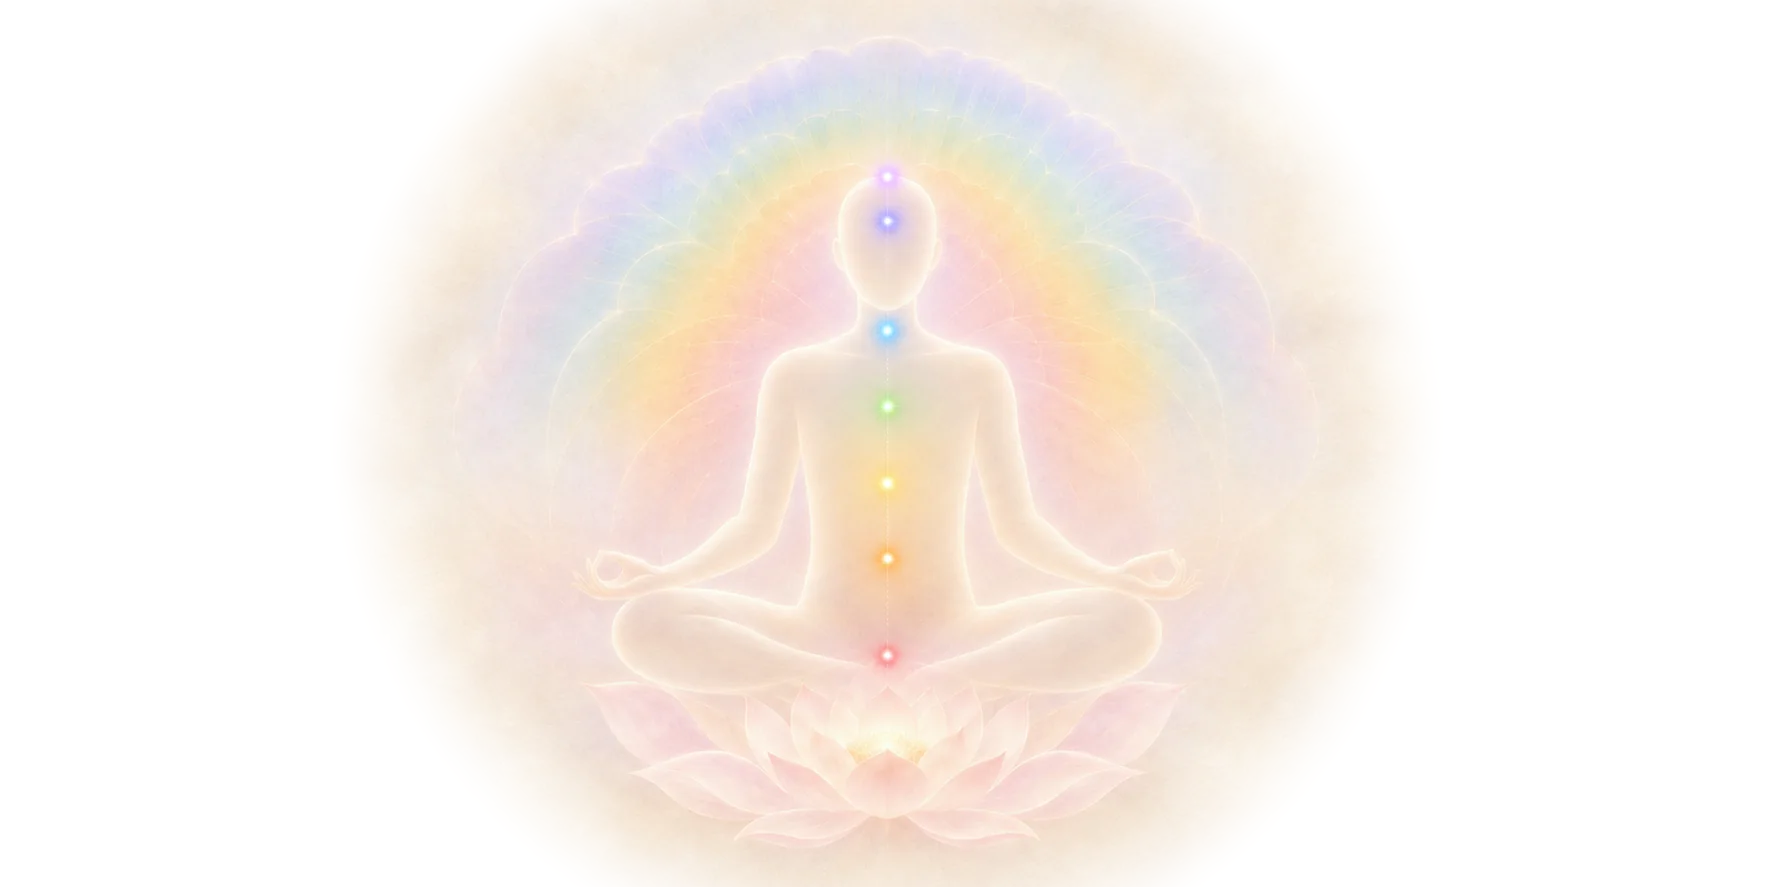
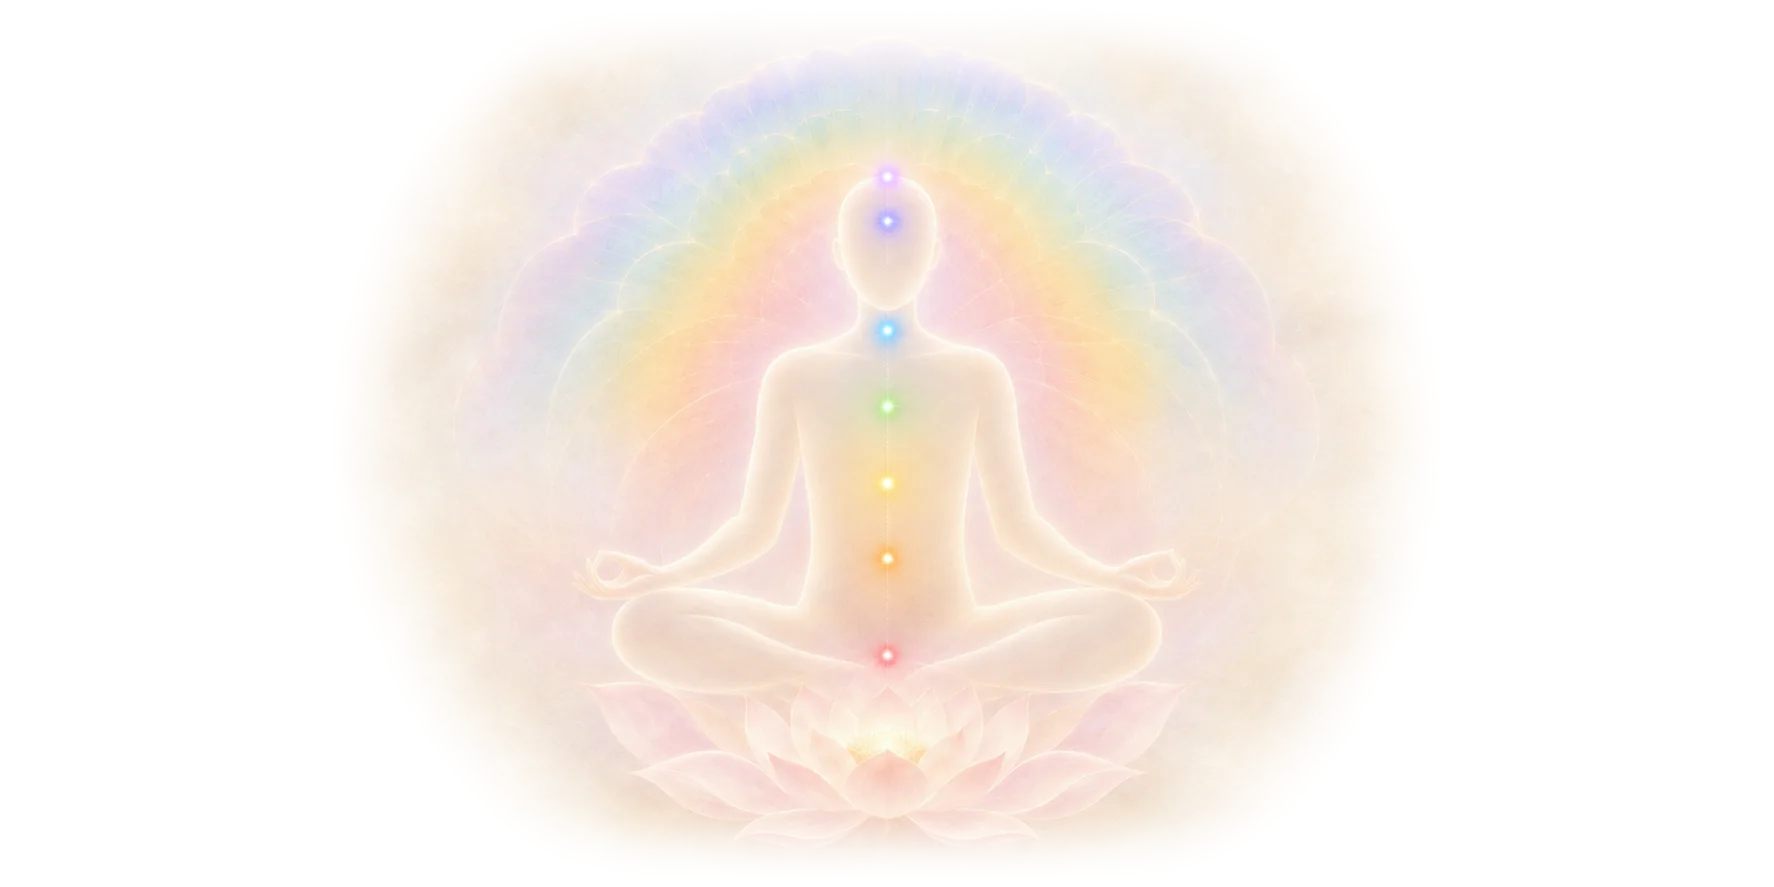
Fade figure top/bottom edges and restyle controls as liquid glass
- Figure: add top/bottom alpha fades so no hard horizontal edge remains
- Phones: transparent panels so glass shadows fade instead of being cut
- CSS liquid-glass treatment for the chakra chip bar (floating over the
  lotus on phones), quiz card and section tabs, keeping real buttons

Changed region(s): [[0.372, 0.0, 0.6511, 0.0609], [0.372, 0.9436, 0.6201, 1.0]]

diff --git a/src/styles.css b/src/styles.css
@@ -26,6 +26,15 @@
   --shadow: #6b5440;
   --fill: #ffffff;
   --scrim: rgba(92, 70, 52, 0.28);
+  /* Liquid glass: translucent fill, frosted backdrop, specular rim. */
+  --glass-fill: linear-gradient(180deg, rgba(255, 255, 255, 0.5), rgba(255, 255, 255, 0.16));
+  --glass-blur: blur(14px) saturate(170%);
+  --glass-shadow:
+    inset 0 1px 0 rgba(255, 255, 255, 0.95),
+    inset 0 -1px 0 rgba(255, 255, 255, 0.35),
+    inset 0 0 0 1px rgba(255, 255, 255, 0.5),
+    0 10px 28px rgba(107, 84, 64, 0.12),
+    0 1px 2px rgba(107, 84, 64, 0.1);
   /* Chakra colours are tuned for glowing on dark; as text on parchment they
      are deepened toward the ink colour to stay readable. */
   --ink-mix: 50%;
@@ -286,18 +295,22 @@ button:focus-visible {
   gap: 14px;
   width: 100%;
   margin-top: 16px;
-  padding: 12px 16px;
+  padding: 12px 18px;
   text-align: left;
-  border: 1px solid var(--line);
-  border-radius: 12px;
-  background: linear-gradient(100deg, color-mix(in srgb, var(--gold) 10%, transparent), color-mix(in srgb, var(--gold) 2%, transparent));
+  border-radius: 20px;
+  background: var(--glass-fill);
+  backdrop-filter: var(--glass-blur);
+  -webkit-backdrop-filter: var(--glass-blur);
+  box-shadow: var(--glass-shadow);
   color: var(--gold-bright);
-  transition: border-color 0.2s ease, box-shadow 0.2s ease, background-color 0.2s ease;
+  transition: box-shadow 0.25s ease, transform 0.25s ease;
 }
 
 .quiz-cta:hover {
-  border-color: color-mix(in srgb, var(--gold-bright) 60%, transparent);
-  box-shadow: 0 0 26px color-mix(in srgb, var(--gold) 16%, transparent);
+  transform: translateY(-1px);
+  box-shadow:
+    var(--glass-shadow),
+    0 14px 34px rgba(107, 84, 64, 0.16);
 }
 
 .quiz-cta > svg:first-child {
@@ -739,14 +752,16 @@ button:focus-visible {
   gap: 4px;
   padding: 4px;
   margin: 0 0 14px;
-  border: 1px solid var(--soft-line);
-  border-radius: 12px;
-  background: color-mix(in srgb, var(--fill) 35%, transparent);
+  border-radius: 999px;
+  background: var(--glass-fill);
+  backdrop-filter: var(--glass-blur);
+  -webkit-backdrop-filter: var(--glass-blur);
+  box-shadow: var(--glass-shadow);
 }
 
 .section-tab {
   min-height: 44px;
-  border-radius: 9px;
+  border-radius: 999px;
   font-family: var(--font-ui);
   font-size: 14px;
   letter-spacing: 0.06em;
@@ -760,10 +775,13 @@ button:focus-visible {
 
 .section-tab.active {
   color: var(--cream);
-  background: color-mix(in srgb, var(--chakra) 16%, var(--bg-raised));
+  background:
+    radial-gradient(ellipse at 50% 0%, rgba(255, 255, 255, 0.95), rgba(255, 255, 255, 0) 70%),
+    color-mix(in srgb, var(--chakra) 16%, rgba(255, 255, 255, 0.6));
   box-shadow:
-    inset 0 -2px 0 color-mix(in oklab, var(--chakra) 70%, var(--ink-base)),
-    0 1px 4px color-mix(in srgb, var(--shadow) 12%, transparent);
+    inset 0 1px 0 rgba(255, 255, 255, 1),
+    inset 0 0 0 1px rgba(255, 255, 255, 0.7),
+    0 3px 10px color-mix(in srgb, var(--chakra) 28%, transparent);
 }
 
 /* Keyboard focus: an inset dashed ring, so it never reads as "selected". */
@@ -1445,22 +1463,29 @@ button:focus-visible {
   display: grid;
   justify-items: center;
   align-content: center;
-  gap: 4px;
-  min-height: 48px;
-  border: 1px solid var(--soft-line);
-  border-radius: 10px;
-  background: color-mix(in srgb, var(--fill) 45%, transparent);
-  transition: border-color 0.2s ease, background-color 0.2s ease;
+  gap: 3px;
+  width: 44px;
+  height: 44px;
+  justify-self: center;
+  border-radius: 50%;
+  transition: background 0.3s ease, box-shadow 0.3s ease, transform 0.3s ease;
 }
 
+/* The active chip becomes a small glass lens tinted by its chakra. */
 .chakra-chip.active {
-  border-color: color-mix(in oklab, var(--chakra) 70%, var(--ink-base));
-  background: color-mix(in srgb, var(--chakra) 14%, var(--bg-raised));
+  background:
+    radial-gradient(circle at 50% 28%, rgba(255, 255, 255, 0.95), rgba(255, 255, 255, 0) 60%),
+    color-mix(in srgb, var(--chakra) 22%, rgba(255, 255, 255, 0.55));
+  box-shadow:
+    inset 0 1px 0 rgba(255, 255, 255, 1),
+    inset 0 0 0 1px rgba(255, 255, 255, 0.7),
+    0 4px 14px color-mix(in srgb, var(--chakra) 35%, transparent);
+  transform: scale(1.06);
 }
 
 .chip-dot {
-  width: 10px;
-  height: 10px;
+  width: 7px;
+  height: 7px;
   border-radius: 50%;
   background: var(--chakra);
   box-shadow: 0 0 6px 1px color-mix(in srgb, var(--chakra) 55%, transparent);
@@ -1468,8 +1493,7 @@ button:focus-visible {
 
 .chip-id {
   font-size: 12px;
-  font-weight: 600;
-  letter-spacing: 0.04em;
+  letter-spacing: 0.02em;
   color: var(--text);
 }
 
@@ -1627,9 +1651,11 @@ button:focus-visible {
     max-height: none;
   }
 
+  /* Phones: the figure scrolls with the page (not fixed), so panels stay
+     transparent and the glass shadows fade out instead of being cut off. */
   .left-panel,
   .right-panel {
-    background: var(--bg);
+    background: transparent;
   }
 
   /* On mobile the figure IS the navigation, so drop the list, its label,
@@ -1689,11 +1715,19 @@ button:focus-visible {
   }
 
   .chakra-chips {
+    position: relative;
+    z-index: 3;
     display: grid;
     grid-template-columns: repeat(7, minmax(0, 1fr));
-    gap: 4px;
-    width: min(94vw, 460px);
-    margin: 10px auto 2px;
+    gap: 2px;
+    width: min(94vw, 380px);
+    margin: -64px auto 6px;
+    padding: 4px;
+    border-radius: 999px;
+    background: var(--glass-fill);
+    backdrop-filter: var(--glass-blur);
+    -webkit-backdrop-filter: var(--glass-blur);
+    box-shadow: var(--glass-shadow);
   }
 
   .mobile-footer .footer-link {

diff --git a/tasks/tools/blend-figure.py b/tasks/tools/blend-figure.py
@@ -18,6 +18,9 @@ def smooth(e0, e1, x):
 yy, xx = np.mgrid[0:H, 0:W]
 r = np.sqrt(((xx - W / 2) / (0.27 * W)) ** 2 + ((yy - 0.49 * H) / (0.53 * H)) ** 2)
 a = 1 - smooth(0.92, 1.18, r)
+# also fade the top and bottom rows: the aura and lotus reach close to the
+# image edges, so without this the artwork stops in a hard horizontal line
+a *= smooth(0.0, 0.12 * H, yy) * smooth(0.0, 0.10 * H, (H - 1) - yy)
 rgba = np.dstack([rgb, a * 255]).astype(np.uint8)
 img = Image.fromarray(rgba, 'RGBA')
 img.save(out, 'WEBP', quality=84, method=6)

diff --git a/tasks/todo.md b/tasks/todo.md
@@ -149,3 +149,12 @@ Done = every goal passes in one clean run, plus your sign-off on G8 → then com
 - [x] Batch C: Understand (themes, stage, shadow, related) / Feel (somatics, nervous system, poses) / Practice (practices, mantras, crystals, contemplation). Proper tab semantics, ←/→ moves between tabs, arrow keys on a tab no longer switch chakra; resets to Understand on chakra change
 - [x] G7 added to ux-check.js. G1–G7 and G9 pass at 375×812, 900×700, 1366×768 and 1440×900; no console errors
 - [ ] Heading font: waiting on your pick (the token `--font-display` is ready)
+
+## Edge fix + liquid glass (2026-11-19), DONE
+
+- [x] Figure edges: the top and bottom rows were still opaque (alpha 254/238), causing a hard horizontal line. Top 12% and bottom 10% fades added; all four edges now alpha 0, crown untouched
+- [x] Phone panels transparent again (the body is flat, so no box shows), which stops the right panel's solid fill cutting off the glass shadows. Tablets keep the solid fill because the figure is fixed behind the page there
+- [x] Liquid-glass styling in plain CSS (`--glass-fill`, `--glass-blur`, `--glass-shadow`): one frosted pill holding the 7 chips, floating over the lotus on phones, with a chakra-tinted lens on the active chip; glass quiz card; glass segmented tabs
+- Decision: dashersw/liquid-glass-js was read but NOT used. Its buttons are divs (no keyboard or screen-reader support), it needs html2canvas to screenshot the whole page (slow on phones, stale after content changes), and every element creates its own WebGL context (phones cap these). The look was rebuilt in CSS with real `<button>`s
+- [x] G1–G7 and G9 pass at 375×812, 900×700, 1366×768 and 1440×900; no console errors
+- [ ] Waiting on you: replacement fonts for Cormorant Garamond (`--font-display`) and Inter (`--font-body`)
